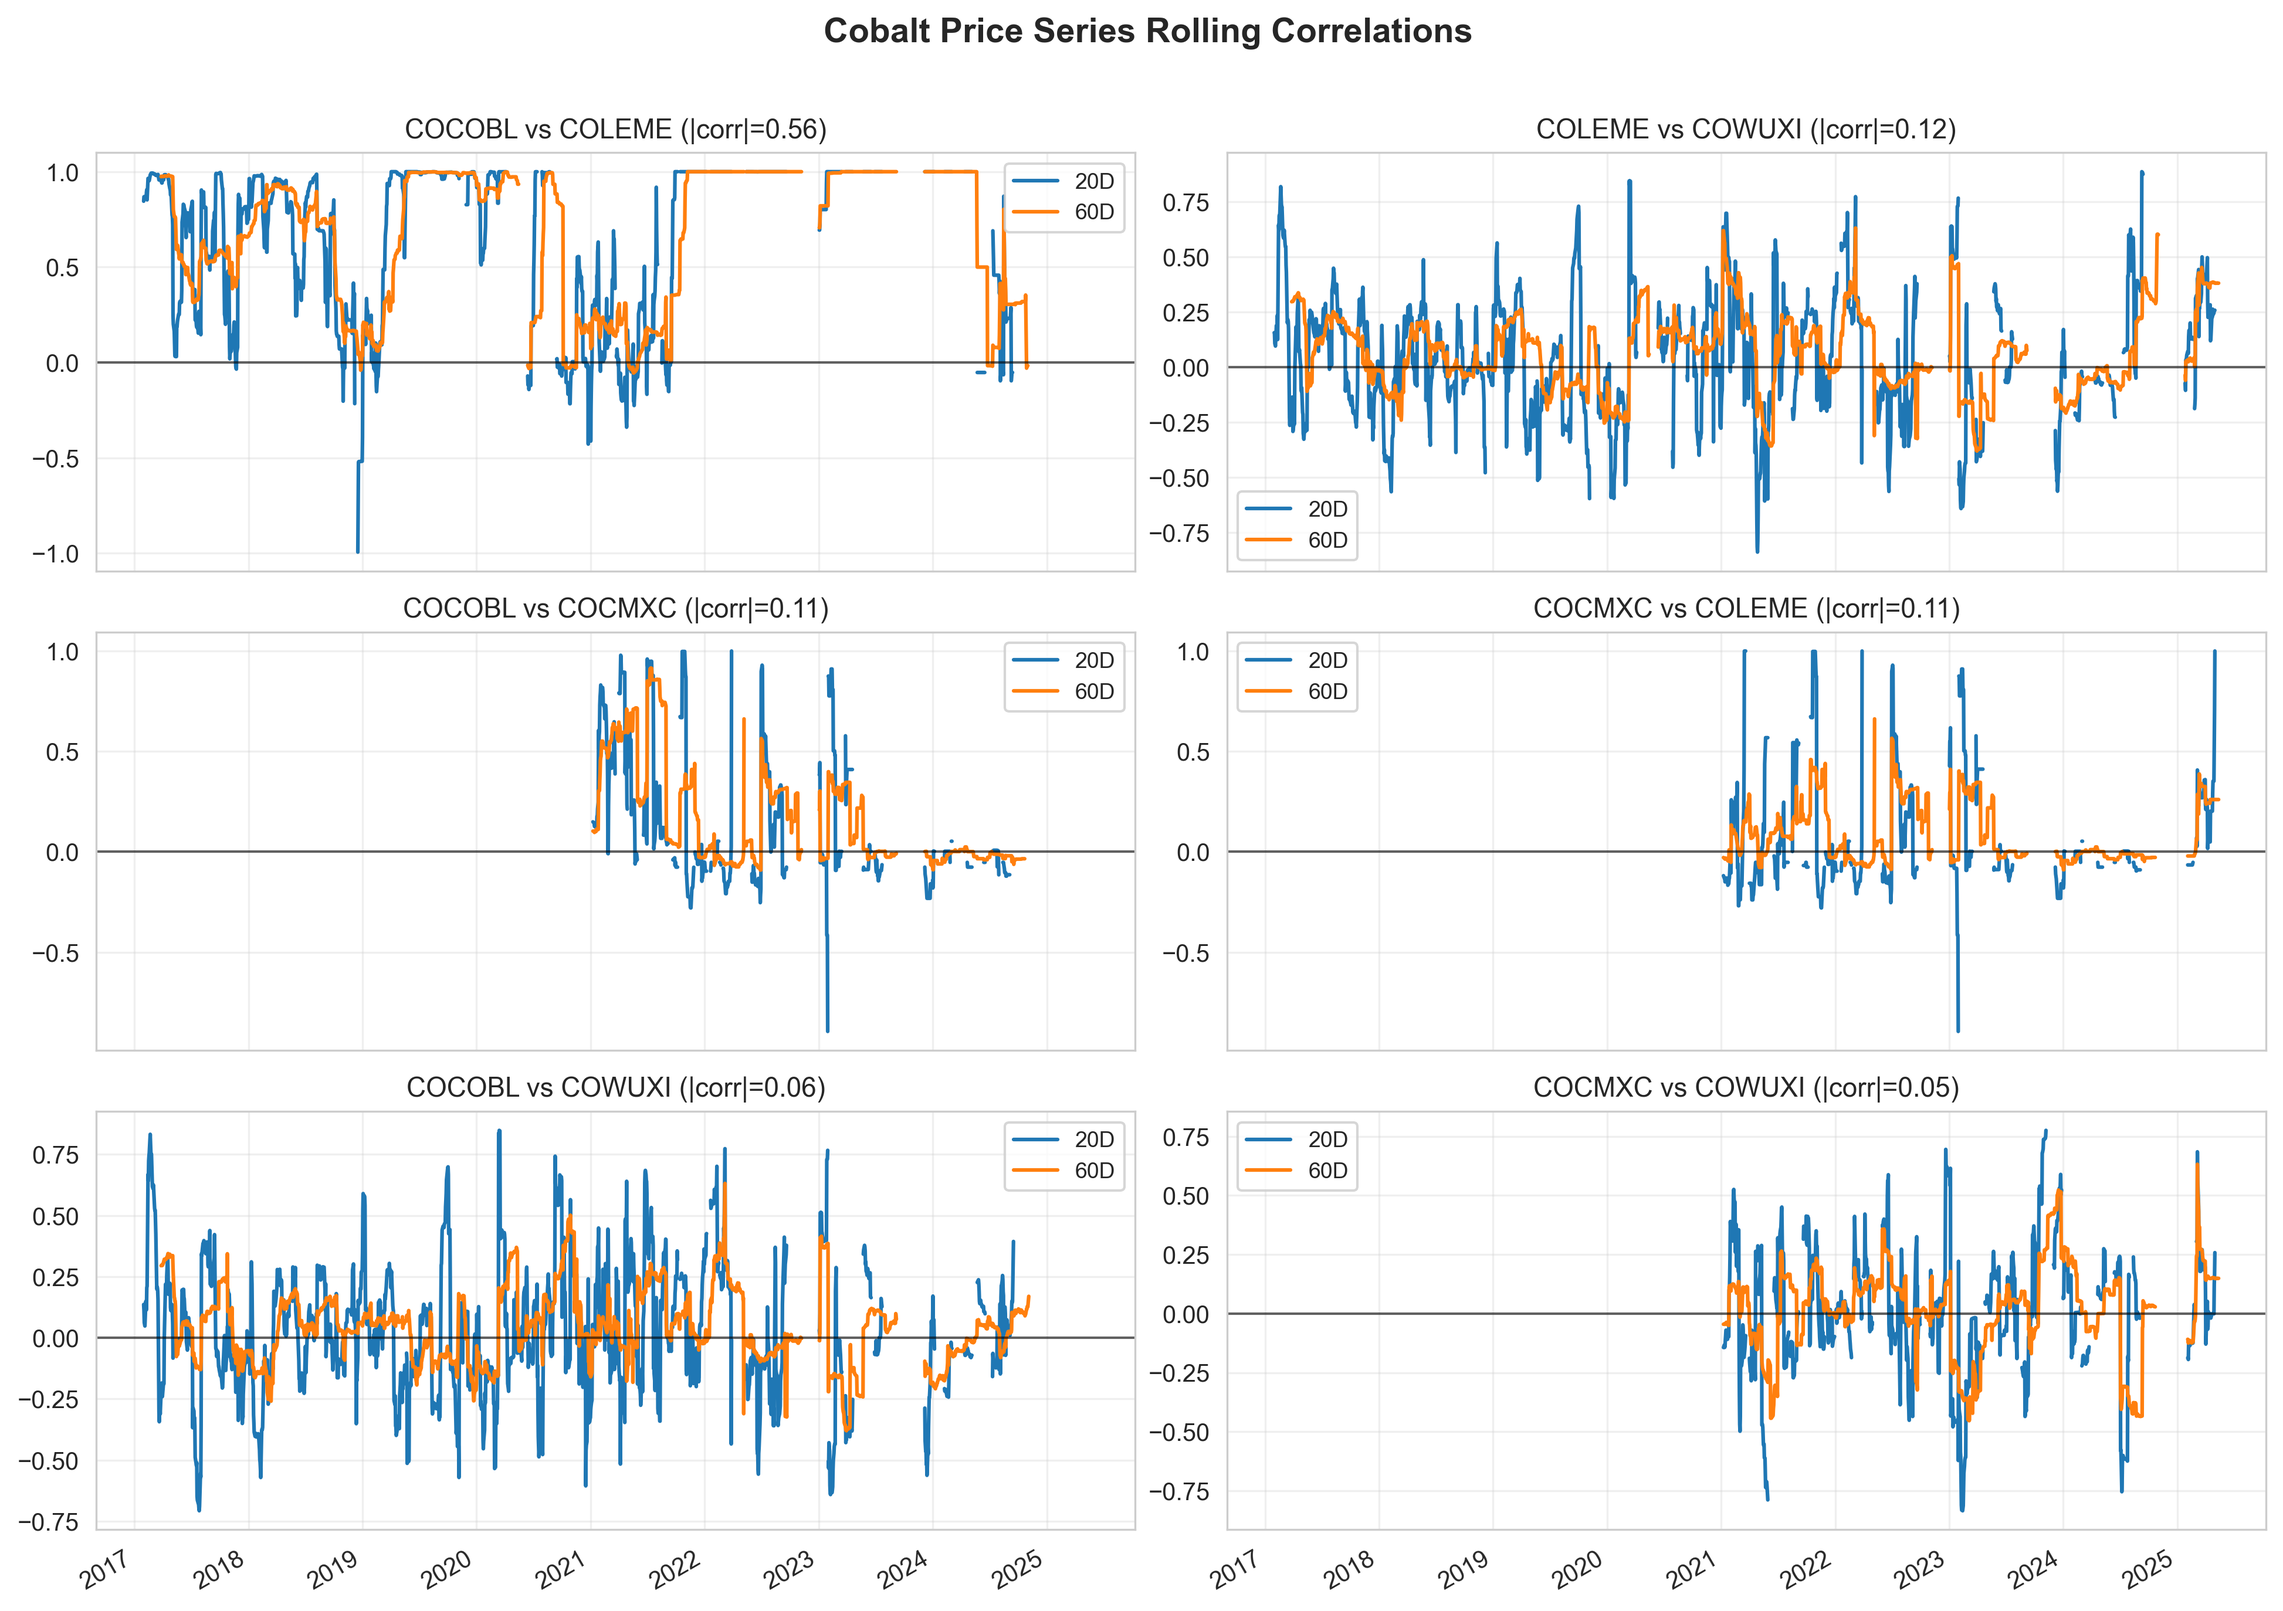
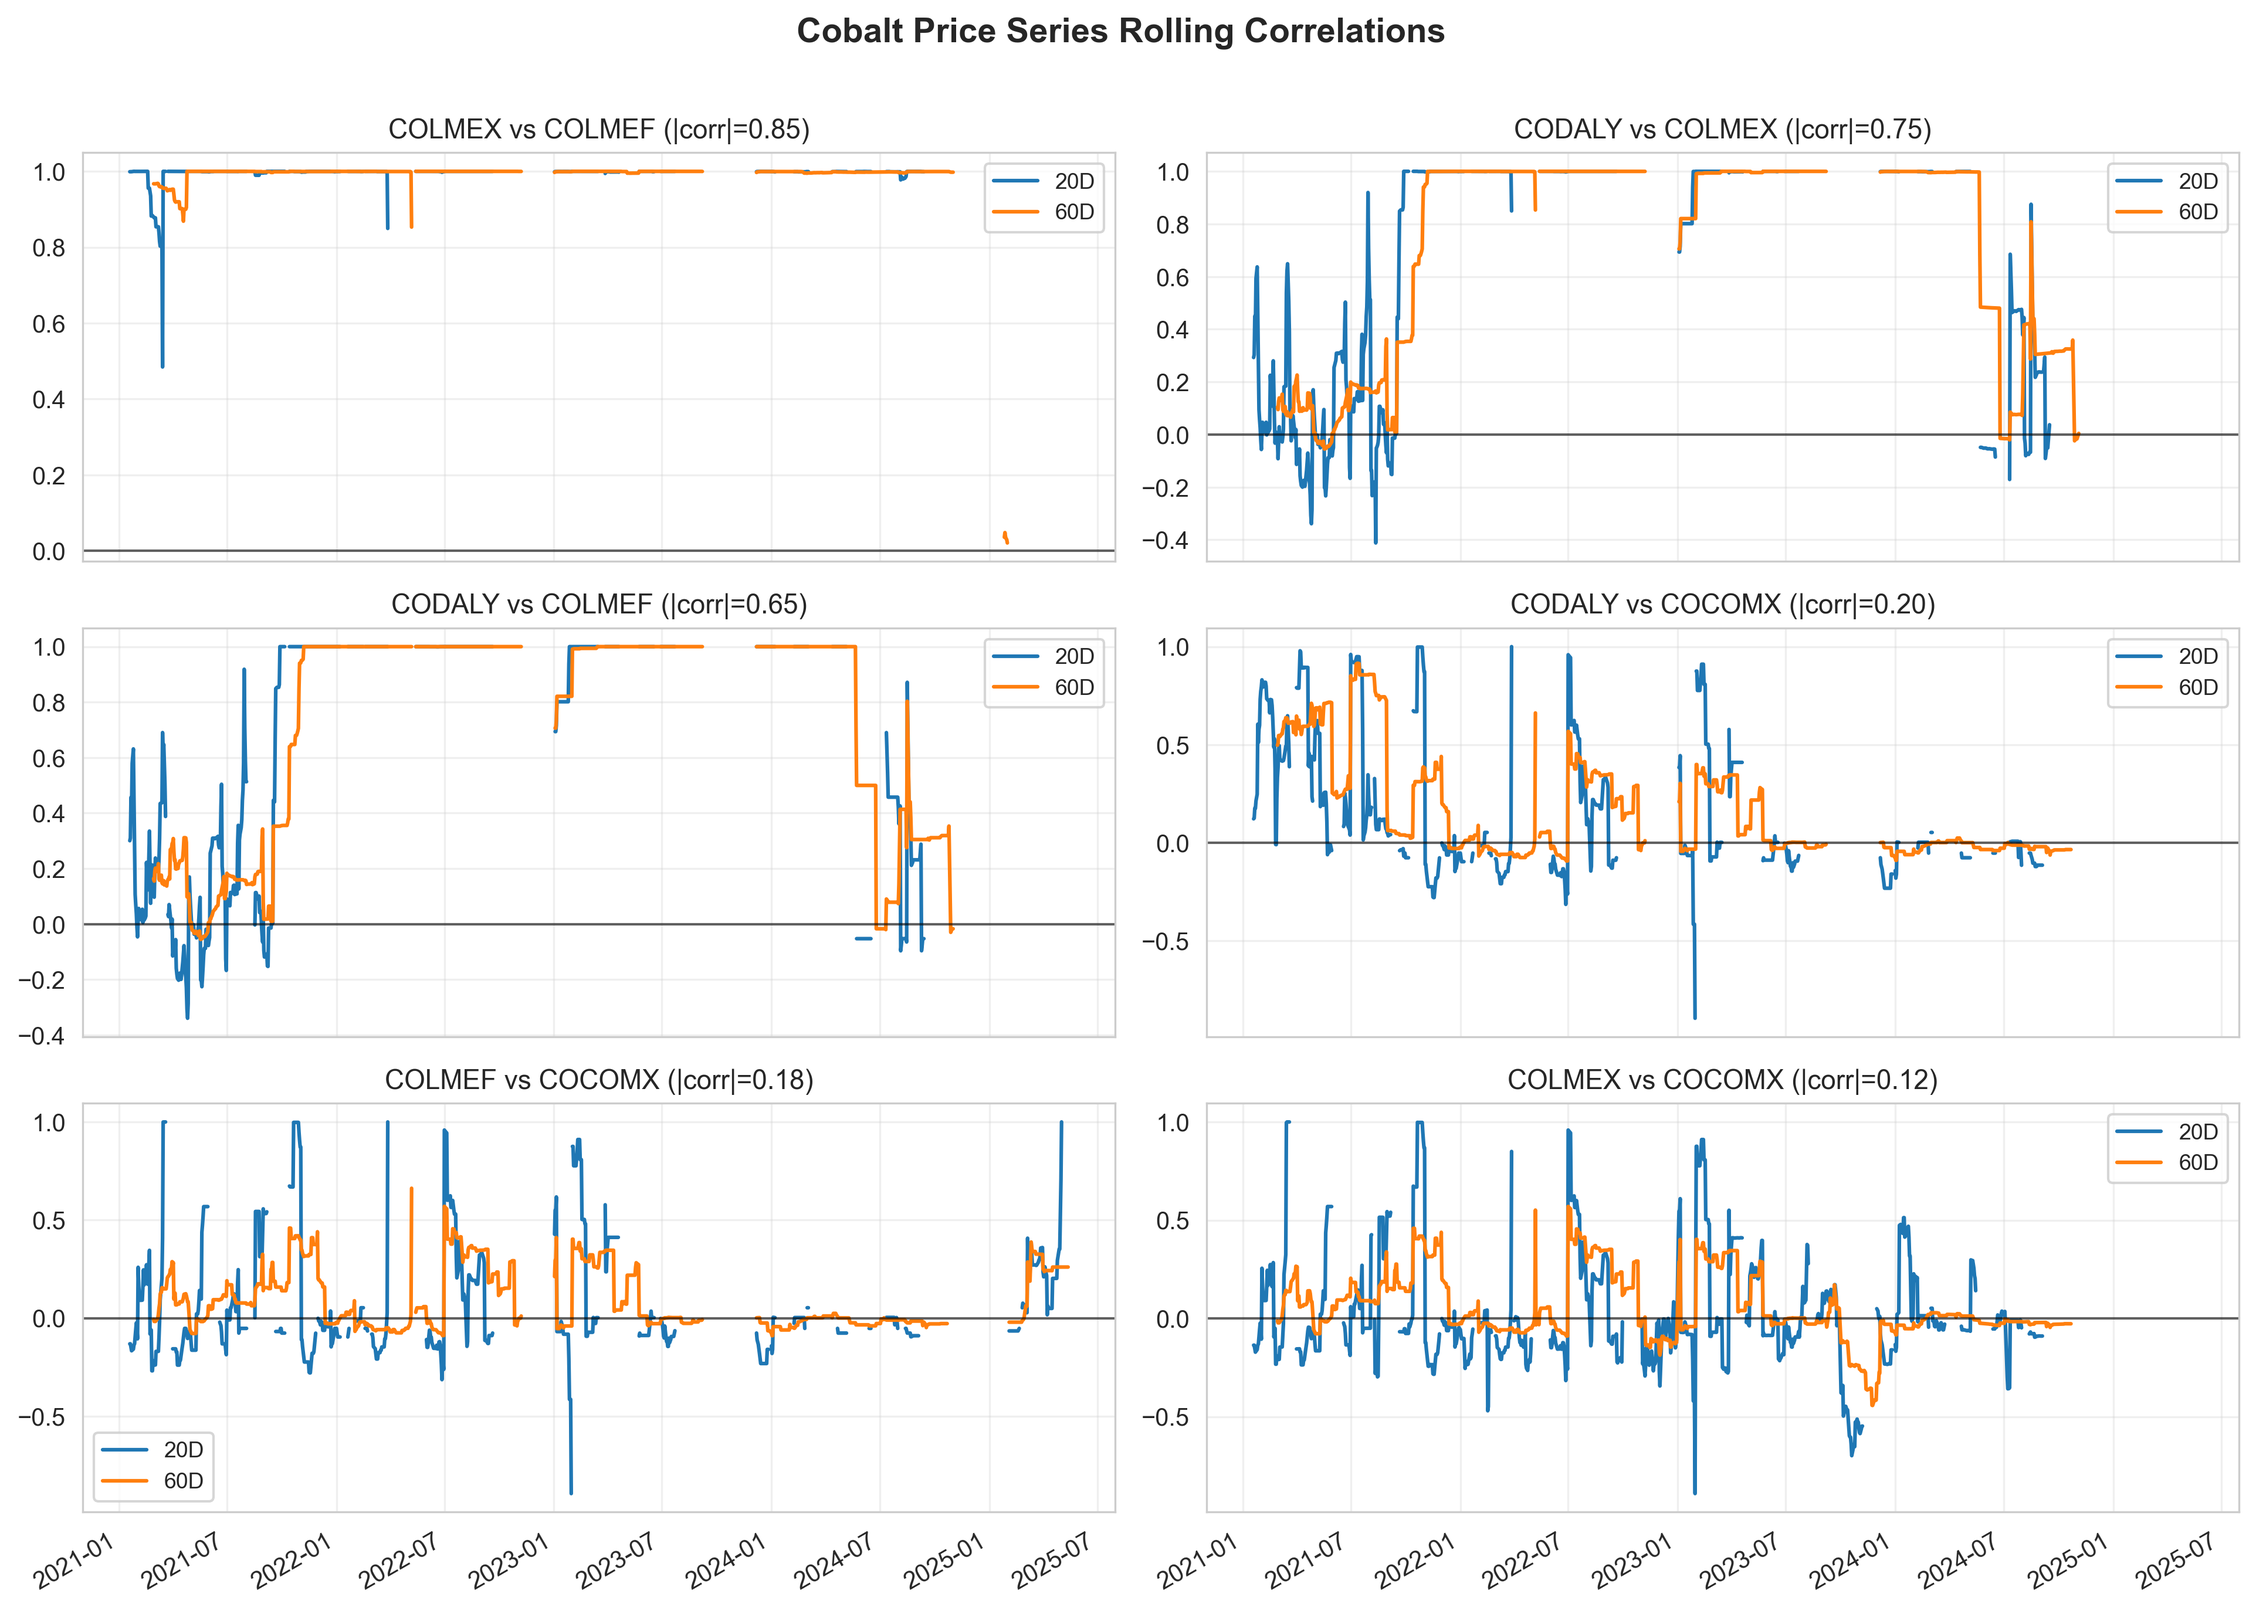
UPD: modify cobalt rolling panels to use new interpolated CSV, update rolling window sizes, and add column renaming functionality

diff --git a/barb_experiments/cobalt_rolling_panels.py b/barb_experiments/cobalt_rolling_panels.py
@@ -1,6 +1,6 @@
 #!/usr/bin/env python3
 """
-Compute rolling correlation windows for cobalt time series from cobalt_prices_tickers.csv.
+Compute rolling correlation windows for cobalt time series from ALL_cobalt_prices_interpolated.csv.
 This script analyzes rolling correlations between different cobalt price series.
 """
 
@@ -16,7 +16,7 @@ from typing import List, Tuple
 def load_and_prepare_data(csv_path: str) -> pd.DataFrame:
     """Load CSV and prepare data for correlation analysis."""
     #df = pd.read_csv("barb_experiments/barb_data/cobalt_prices_tickers.csv")
-    df = pd.read_csv("barb_experiments/data/ALL_cobalt_prices_interpolated.csv")
+    df = pd.read_csv("data/ALL_cobalt_prices_interpolated.csv")
     if 'Date' not in df.columns:
         raise ValueError(f"Expected a 'Date' column in {csv_path}")
     
@@ -30,7 +30,29 @@ def load_and_prepare_data(csv_path: str) -> pd.DataFrame:
             continue
         if not pd.api.types.is_numeric_dtype(df[col]):
             df[col] = pd.to_numeric(df[col], errors='coerce')
+
+    # Change tickers
+    ticker_mapping = {
+        'Price_DailyMetal': 'CODALY',      # Daily Metal Cobalt prices
+        'Price_LME': 'COLMEX',
+        'Price_LME_3M': 'COLMEF',
+        'Price_LME_All_Location_Stock': 'COLMEA',           # LME 3M Cobalt
+        'Price_WUXI': 'COWUXI',            # WUXI Cobalt futures
+        'Price_COMEX': 'COCOMX'              # COMEX Cobalt Metal (Fastmarkets) Electronic Commodity 
+    }
+    # Apply the mapping to rename columns
+    df = df.rename(columns=ticker_mapping)
     
+    # Optional: Print which columns were renamed for debugging
+    renamed_cols = [old for old in ticker_mapping.keys() if old in df.columns]
+    if renamed_cols:
+        print(f"Renamed columns: {renamed_cols}")
+    
+    # Optional: Check for unmapped columns (excluding Date)
+    unmapped_cols = [col for col in df.columns if col != 'Date' and col not in ticker_mapping.values()]
+    if unmapped_cols:
+        print(f"Warning: Unmapped columns found: {unmapped_cols}")
+
     return df
 
 
@@ -73,7 +95,7 @@ def get_top_correlated_pairs(returns: pd.DataFrame, top_n: int = 6) -> List[Tupl
 
 
 def plot_rolling_correlations(returns: pd.DataFrame, pairs: List[Tuple[str, str, float]], 
-                            windows: List[int] = [20, 60], output_path: str = None, 
+                            windows: List[int] = [30, 60], output_path: str = None, 
                             ncols: int = 2) -> None:
     """Plot rolling correlations for top pairs."""
     
@@ -86,6 +108,7 @@ def plot_rolling_correlations(returns: pd.DataFrame, pairs: List[Tuple[str, str,
     
     # Set up colors
     palette = sns.color_palette('tab10', n_colors=max(3, len(windows)))
+    #palette = sns.color_palette(['#191970', '#006400'], n_colors=max(3, len(windows)))
     sns.set_style('whitegrid')
     
     # Create subplots
@@ -171,8 +194,9 @@ def analyze_csv_correlations(csv_path: str, windows: List[int] = [30, 60],
 # Example usage
 if __name__ == "__main__":
     # Example parameters - modify these for your use case
-    csv_file = "barb_experiments/barb_data/cobalt_prices_tickers.csv"  # Cobalt CSV path
-    rolling_windows = [20, 60]  # Rolling window sizes in days
+    #csv_file = "barb_experiments/barb_data/cobalt_prices_tickers.csv"  # Cobalt CSV path
+    csv_file = "data/ALL_cobalt_prices_interpolated.csv"  # Cobalt CSV path
+    rolling_windows = [30, 60]  # Rolling window sizes in days
     top_pairs = 6  # Number of top correlated pairs to plot
     columns_per_row = 2  # Number of columns in subplot grid
     
